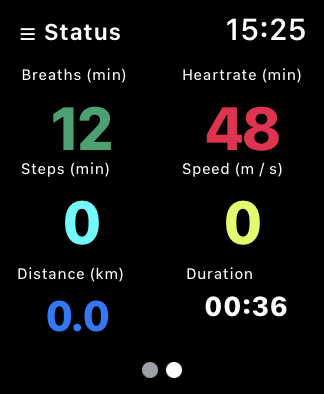
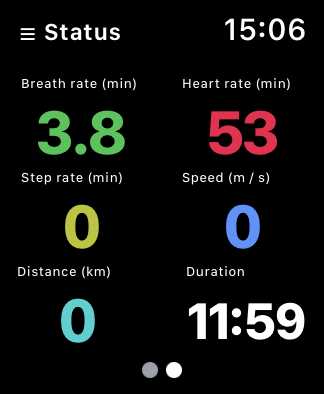
copy

diff --git a/README.md b/README.md
@@ -1,13 +1,13 @@
-<controller@way.point>
+<session@way.point>
 ***Breathic*** is a fitness-focused Apple Watch app for endurance athletes (and more specifically for those looking to get a better understanding into their breathing) that manages breathing cycles through heart or movement activity. It does that by measuring user's heartrate, which is then followed by triggering audible or haptic events indicating when it will be a good time to either breathe in or breathe out again.
 \
 \
 \
-First, after installing the app, take a look at `Controller` view where the `Session` toggle allows for starting (and then finishing) a session. You will be greeted with selection different activities that each will have different rhythm speeds.
+After installing the app, take a look at `Session` view where first toggle allows for starting (and then finishing) a session. You will be greeted with selection different activities that each will have different rhythm speeds (***Focus***, ***Move***, ***Relax***, ***Sleep***).
 \
 \
 \
-Secondly, `Playback` temporarily pauses (or resumes) the session.
+Secondly, `Playback` temporarily pauses (or resumes) the session. Depending on which breathing steps are available for a particular activity, relevant label (In, Hold, Out, Hold) will be displayed here for your guidance on when to breathe.
 \
 \
 \
@@ -16,11 +16,11 @@ Thirdly, `Feedback` toggles between ***Music***, ***Audio***, ***Haptic*** and *
 \
 \
 <status@way.point>
-Lastly, focus on the `Activity` toggle. Tapping on the `Activity` will toggle between different rhythms. To give you an overview, having rhythm of 1:1 while your heartbeat is on 1bps (or 60bpm) will translate to 0.5 breath cycles (in and out) per second (or 30bpm). If you are to decrease the rhythm to 2:2, then the breathing feedback will become slower by a factor of 2. If you start working out and your heartbeat goes from 60 to 120bpm, then app's breathing rate will also increase by a factor of 2.
+Lastly, focus on the `Activity` toggle. Tapping on the `Activity` will toggle between different rhythms based on your selection. ***Focus***, ***Relax*** and ***Sleep*** use constant 1 second duration per step, whereas for ***Move***, having rhythm of 1:1 while your heartbeat is on 1bps (or 60bpm) will translate to 0.5 breath cycles (in and out) per second (or 30bpm). If you are to decrease the rhythm to 2:2, then the breathing feedback will become slower by a factor of 2. If you start working out and your heartbeat goes from 60 to 120bpm, then app's breathing rate will also increase by a factor of 2.
 \
 \
 \
-If you then pan the `Controller` view to left, you will see `Status` view on the right with all the relevant metrics.
+If you then pan the `Session` view to left, you will see `Status` view on the right with all the relevant metrics.
 \
 \
 \
@@ -28,7 +28,7 @@ If you chose Audio, make sure the output device is set as connected under Apple 
 \
 \
 \
-<progress@way.point>
+<overview@way.point>
 After finishing a session, press and hold the `Session` tab again for either *saving* or *discarding* session metrics. Saved sessions with relevant overview data as well as a graph will appear under `Log` view that you can select from the burger menu. Finished sessions will also be uploaded to cloud, and can be then on accessed by scanning the QR-code under `Export` tab.
 \
 \
